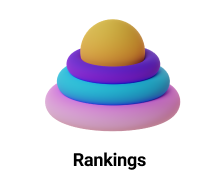
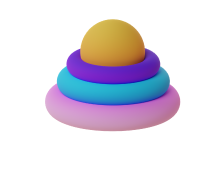
Ranking

Changed region(s): [[0.3288, 0.8721, 0.6849, 0.9884]]

diff --git a/src/screens/RankingsScreen/index.tsx b/src/screens/RankingsScreen/index.tsx
@@ -1,12 +1,45 @@
 import React from 'react';
-import {View, Text} from 'react-native';
+import {View, Text, Image, FlatList} from 'react-native';
+import styles from './styles';
+import UserRangeItem from "../../components/UserRankingItem";
+const image =  require('../../../assets/images/Saly-20.png');
 
-const RankingsScreen = (props) => {
+const portfolioCoins = [{
+  id: '1',
+  name: 'Virtual Dollars',
+  image: 'https://notjustdev-dummy.s3.us-east-2.amazonaws.com/avatars/1.jpg',
+  netWorth: 69420,
+}, {
+  id: '2',
+  name: 'Bitcoin',
+  image: 'https://notjustdev-dummy.s3.us-east-2.amazonaws.com/avatars/1.jpg',
+  netWorth: 59420,
+}, {
+  id: '3',
+  name: 'Etherium',
+  image: 'https://notjustdev-dummy.s3.us-east-2.amazonaws.com/avatars/1.jpg',
+  netWorth: 30120,
+},
+]
+
+const PortfolioScreen = () => {
   return (
-    <View style={{flex: 1, justifyContent: 'center', alignItems: 'center'}}>
-      <Text>RankingsScreen component</Text>
+    <View style={styles.root}>
+      <FlatList
+        style={{width: '100%'}}
+        data={portfolioCoins}
+        renderItem={({item, index}) => <UserRangeItem user={item} place={index + 1} />}
+        showsVerticalScrollIndicator={false}
+        ListHeaderComponentStyle={{alignItems: 'center'}}
+        ListHeaderComponent={() => (
+          <>
+            <Image style={styles.image} source={image} />
+            <Text style={styles.label}>Rankings</Text>
+          </>
+        )}
+      />
     </View>
   );
 };
 
-export default RankingsScreen;
+export default PortfolioScreen;

diff --git a/src/components/UserRankingItem/index.tsx b/src/components/UserRankingItem/index.tsx
@@ -1,0 +1,40 @@
+import React, {useEffect} from 'react';
+import {View, Text, Image} from 'react-native';
+import styles from './styles'
+
+export interface UserRankingItemProps {
+  user: {
+    image: string,
+    name: string,
+    netWorth: number,
+  },
+  place: number,
+}
+
+const UserRankingItem = (props: UserRankingItemProps) => {
+  const {
+    user: {
+      image,
+      name,
+      netWorth
+    },
+    place
+  } = props;
+  return (
+    <View style={styles.root}>
+      <View style={styles.left}>
+        <Text style={styles.place}>{place}</Text>
+        <Image style={styles.image} source={{ uri: image}} />
+        <View>
+          <Text style={styles.name}>{name}</Text>
+        </View>
+      </View>
+      <View style={{alignItems: 'flex-end'}}>
+        <Text style={styles.value}>${netWorth}</Text>
+
+      </View>
+    </View>
+  );
+};
+
+export default UserRankingItem;

diff --git a/src/components/UserRankingItem/styles.ts b/src/components/UserRankingItem/styles.ts
@@ -1,0 +1,38 @@
+import { StyleSheet } from 'react-native';
+
+const styles = StyleSheet.create({
+  root: {
+    flexDirection: 'row',
+    justifyContent: 'space-between',
+    alignItems: 'center',
+    height: 50,
+    marginVertical: 10,
+  },
+  image: {
+    height: 50,
+    width: 50,
+    marginRight: 10,
+  },
+  left: {
+    flexDirection: 'row',
+    alignItems: 'center',
+  },
+  name: {
+    fontWeight: 'bold',
+    marginBottom: 5,
+  },
+  value: {
+    fontSize: 18,
+    fontWeight: '600',
+    marginBottom: 5,
+  },
+  symbol: {
+    color: '#6b6b6b',
+  },
+  place: {
+    fontSize: 18,
+    width: 20,
+  },
+});
+
+export default styles;

diff --git a/src/screens/RankingsScreen/styles.ts b/src/screens/RankingsScreen/styles.ts
@@ -1,0 +1,20 @@
+import { StyleSheet } from 'react-native';
+
+const styles = StyleSheet.create({
+  root: {
+    flex: 1,
+    alignItems: 'center',
+    padding: 20,
+    backgroundColor: 'white',
+  },
+  image: {
+    height: 175,
+    resizeMode: "contain",
+  },
+  label: {
+    fontSize: 18,
+    fontWeight: 'bold',
+  },
+});
+
+export default styles;
